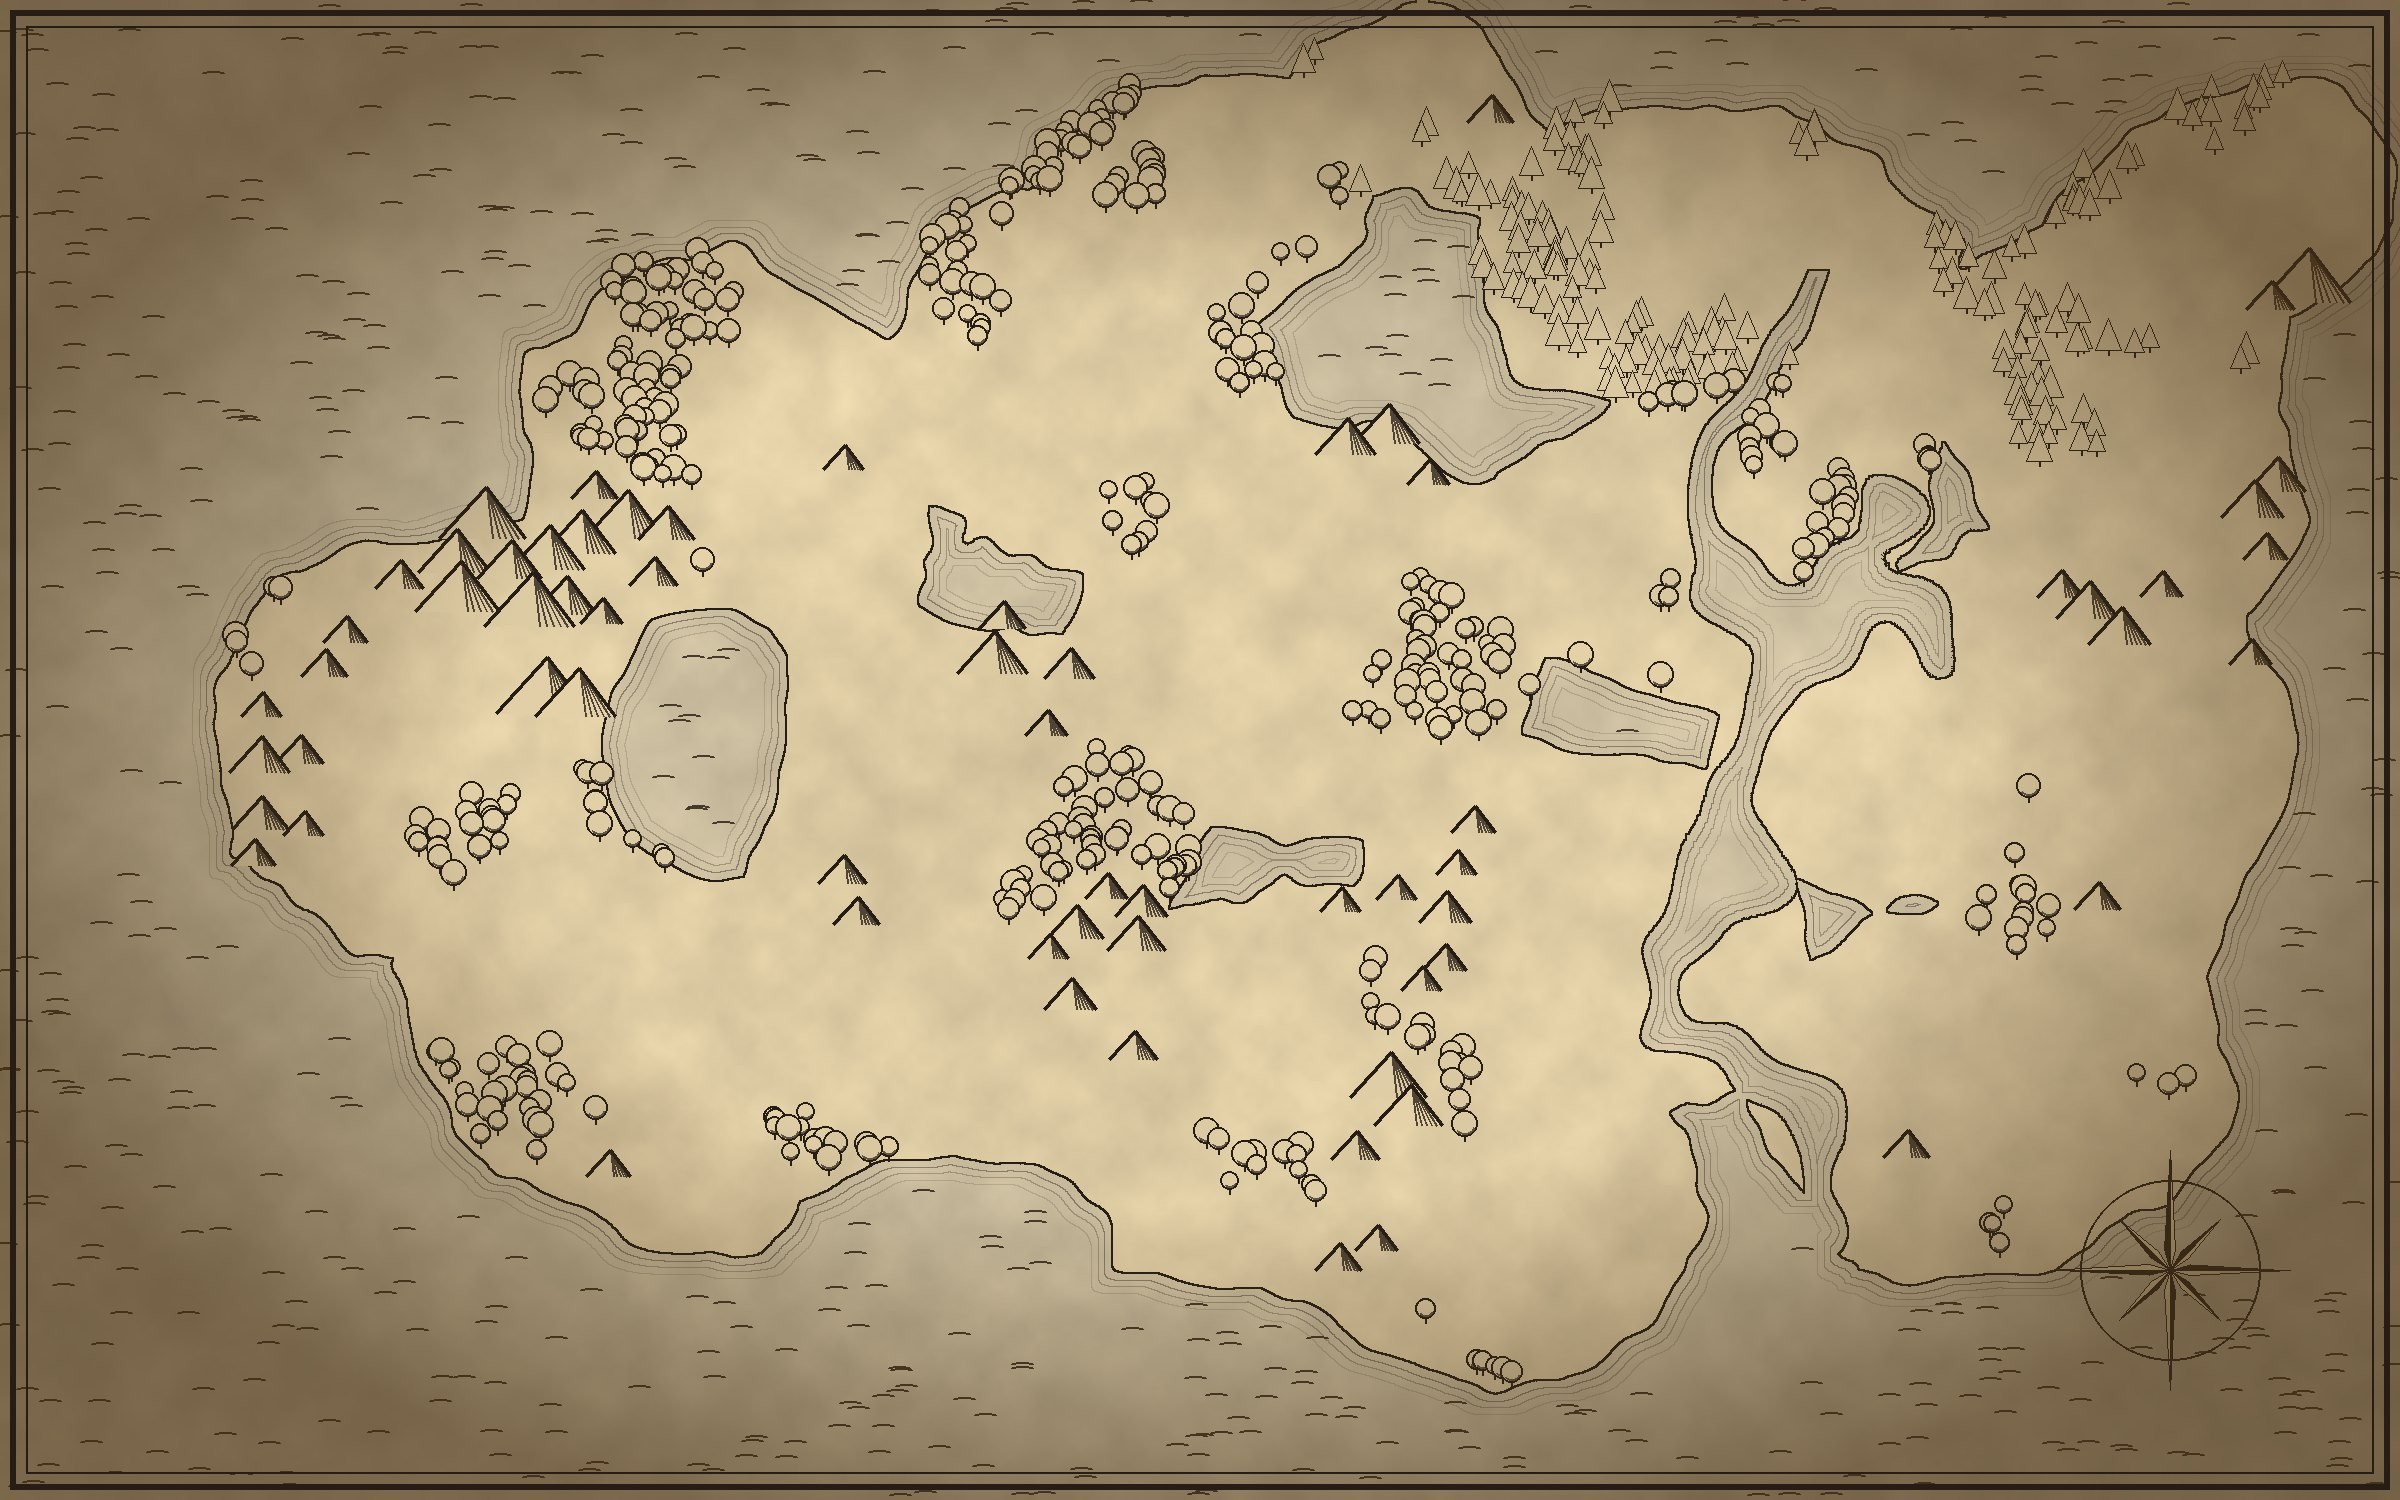
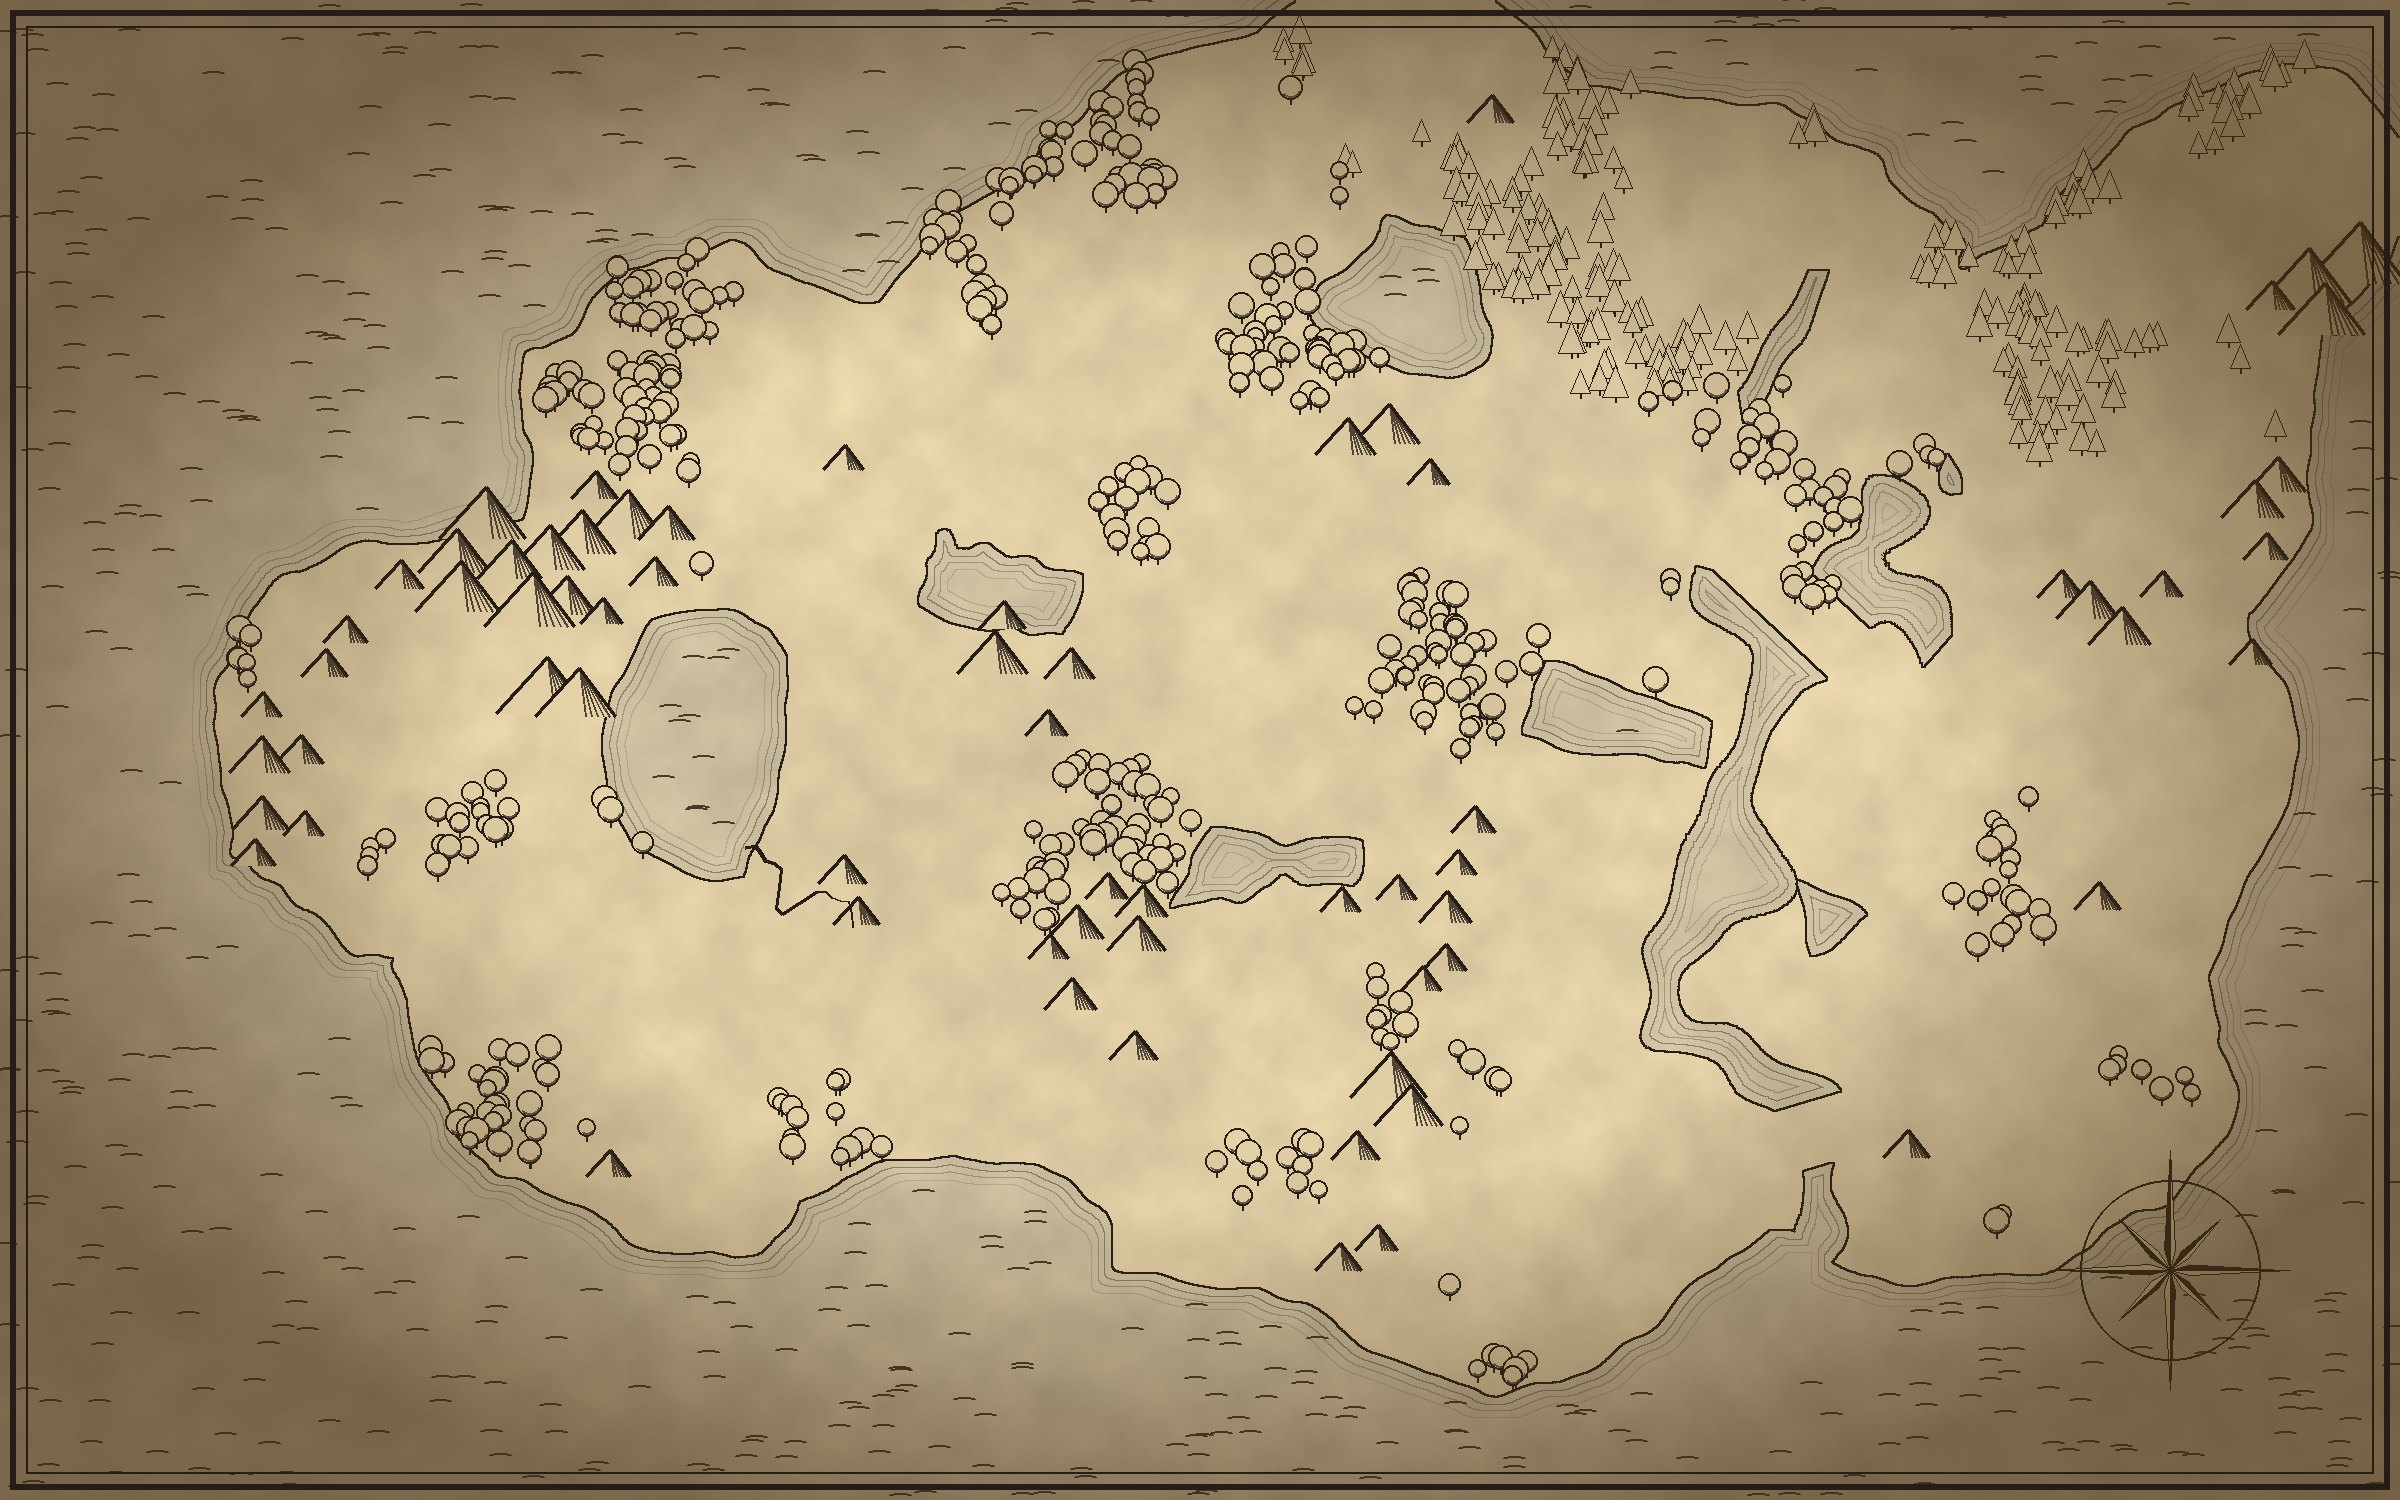
The open world: every place reachable, the world map grown along every road
Status gates tournaments, not travel; the world map's land follows every road
(a causeway or ford where one crosses the channel).

Claude-Session: https://claude.ai/code/session_01JA2Thj6vzEQeR2LT9rcQ2q

diff --git a/src/places/MapScreen.jsx b/src/places/MapScreen.jsx
@@ -11,18 +11,10 @@ import { useAssetUrl } from '../components/Asset.jsx';
 import { BEYOND_TEASER, inSlice } from '../data/slice.js';
 import Icon from '../components/Icon.jsx';
 
-const TIER_ORDER = { Regional: 0, National: 1, Global: 2 };
 
-// Road network as chains of location ids. Paths are built from each location's
-// x/y (percent of the map), so routes always meet the nodes.
-// The roads of src/data/roads.js (drawn bright), then the routes of later chapters (dim).
-const MAP_ROUTES = [
-  ...ROADS.filter((road) => !road.area && road.ends.every(Boolean)).map((road) => ({ dim: Boolean(road.gate?.chapterAtLeast), chain: road.ends })),
-  { dim: true, chain: ['windmere', 'tidecross', 'sunspire', 'mooncourt', 'thornwatch', 'skyreach', 'beaststeppe', 'irondeep'] },
-  { dim: true, chain: ['tidecross', 'brasshaven', 'coral-crown', 'cloud-monastery', 'ashen-caldera', 'starfall-archive', 'far-veil'] },
-  { dim: true, chain: ['thornwatch', 'verdant-citadel', 'irondeep'] },
-  { dim: true, chain: ['skyreach', 'ashen-caldera', 'cloud-monastery'] },
-];
+// Road network as chains of location ids: roads travelled from the map (no walkable area).
+// Walkable roads are drawn as spurs from each known end to their marker (below).
+const MAP_ROUTES = ROADS.filter((road) => !road.area && road.ends.every(Boolean)).map((road) => ({ dim: Boolean(road.gate?.chapterAtLeast), chain: road.ends }));
 
 /**
  * Where a wild area sits on the map: a road between two places sits halfway along it;
@@ -57,7 +49,8 @@ export default function MapScreen({ state, actions, navigate, place }) {
   const questTitle = story.active?.title || '';
   const knowledge = getWorldKnowledge(state);
   const selectedBeyond = !inSlice(selected.id);
-  const unlocked = TIER_ORDER[selected.tier] <= state.guild.tierIndex && !selectedBeyond;
+  // The open world: every place can be reached; danger, not status, keeps a guild away.
+  const unlocked = !selectedBeyond;
   const overworld = useAssetUrl('ui.overworld');
   // Drag to pan, pinch (or wheel) to zoom; a tap still picks a location.
   const panZoom = usePanZoom({ max: 3 });
@@ -176,7 +169,7 @@ export default function MapScreen({ state, actions, navigate, place }) {
               ) : null}
               {LOCATIONS.filter((location) => known(location.id)).map((location) => {
                 const beyond = !inSlice(location.id);
-                const canReach = TIER_ORDER[location.tier] <= state.guild.tierIndex && !beyond;
+                const canReach = !beyond;
                 const isCurrent = location.id === currentLocationId;
                 const isDestination = travel?.toId === location.id;
                 const knowledgeStatus = knowledge[location.id] || 'unknown';
@@ -409,7 +402,7 @@ export default function MapScreen({ state, actions, navigate, place }) {
         {/* Places in a later chapter share one row. */}
         {LOCATIONS.filter((location) => known(location.id) && inSlice(location.id)).map((location) => {
           const beyond = !inSlice(location.id);
-          const canReach = TIER_ORDER[location.tier] <= state.guild.tierIndex && !beyond;
+          const canReach = !beyond;
           const knowledgeStatus = knowledge[location.id] || 'unknown';
           return (
             <button

diff --git a/src/game/engine/economy.js b/src/game/engine/economy.js
@@ -4,7 +4,7 @@ import { ROOM_BY_ID } from '../../data/rooms.js';
 import { statusName } from '../../data/tournaments.js';
 import { LOT_BY_ID } from '../../data/lots.js';
 import { charterEffect } from './charter.js';
-import { LOCATION_BY_ID, travelDays, unlockedLocations } from '../../data/world.js';
+import { LOCATION_BY_ID, travelDays } from '../../data/world.js';
 import { roadBetween, roadsFrom } from '../../data/roads.js';
 import {
   addChronicle,
@@ -38,7 +38,8 @@ const DEBT_WALKOUT_LOYALTY = 50;
 export function getTravelQuote(state, destinationId) {
   const fromId = state.world?.currentLocationId || 'dunmere';
   const destination = LOCATION_BY_ID[destinationId];
-  const unlocked = unlockedLocations(state.guild.tierIndex).some((location) => location.id === destinationId);
+  // The open world: every place is open to every guild (danger, not status, keeps them away).
+  const unlocked = Boolean(destination);
   const road = roadBetween(fromId, destinationId);
   const days = destination ? road?.days || travelDays(fromId, destinationId) : 0;
   const party = Math.max(1, travellingPartyIds(state, true).length);

diff --git a/src/data/slice.js b/src/data/slice.js
@@ -4,10 +4,9 @@
 export const SLICE = {
   enabled: true,
   chapter: 1,
-  // Travel destinations on the world map.
-  locations: ['dunmere', 'greenhollow', 'ironford', 'windmere'],
-  // Walkable wild areas, built in Phase 1. Listed here so later phases share one source.
-  wildAreas: ['old-road', 'thornwood-edge', 'blackwood', 'iron-road', 'cliff-road', 'coast-road'],
+  // Travel destinations on the world map: null = the whole world (the open world, with the
+  // world skeleton's box towns and roads; docs/design/STORY_DRAFT.md).
+  locations: null,
   // Highest guild tier with content in the slice (0 = Regional).
   maxTier: 0,
   // Systems kept in code but not surfaced in Chapter 1.
@@ -26,7 +25,7 @@ export function sliceHides(system) {
 
 /** True when a location can be reached in this build. */
 export function inSlice(locationId) {
-  return !SLICE.enabled || SLICE.locations.includes(locationId);
+  return !SLICE.enabled || !SLICE.locations || SLICE.locations.includes(locationId);
 }
 
 /** Caps a tier index at the slice's highest tier. */

diff --git a/scripts/art/worldmap.py b/scripts/art/worldmap.py
@@ -59,9 +59,11 @@ field = land * 0.9 + n * 0.42 + (bays - 0.5) * 0.5 - 0.52
 # keep a sea margin round the edges, a little ragged
 # land runs along every road (src/data/roads.js) and the main route east, so roads never cross the sea
 BYID = {p['id']: p for p in PL}
-links = re.findall(r"ends: \['([a-z-]+)', '([a-z-]+)'\]", open(os.path.join(GAME, 'src', 'data', 'roads.js')).read())
-chain = ['windmere', 'tidecross', 'sunspire', 'mooncourt', 'thornwatch']
-links += list(zip(chain, chain[1:]))
+roads_src = open(os.path.join(GAME, 'src', 'data', 'roads.js')).read()
+links = re.findall(r"ends: \['([a-z-]+)', '([a-z-]+)'\]", roads_src)
+# The world skeleton's roads: WORLD_ROADS rows ['from', 'to', 'Name', [levels]].
+links += re.findall(r"\['([a-z-]+)', '([a-z-]+)', '", roads_src)
+road_near = np.zeros((H, W), dtype=bool)
 for a, b in links:
     if a not in BYID or b not in BYID:
         continue
@@ -70,12 +72,15 @@ for a, b in links:
     t = np.clip(((xx - ax) * vx + (yy - ay) * vy) / (vx * vx + vy * vy), 0, 1)
     dist = np.hypot(xx - (ax + t * vx), yy - (ay + t * vy))
     field += 0.55 * np.exp(-(dist / 80) ** 2)
+    road_near |= dist < 34
 edge = np.minimum.reduce([xx, W - xx, yy, H - yy]) / 230.0
 field -= np.clip(1 - edge, 0, 1) * 0.6
 is_land = field > 0
 # a channel cuts the Storm Isles off from the mainland
 channel = np.abs(xx - (0.76 * W + (noise(200, 3) - 0.5) * 420 + np.sin(yy / 90) * 30)) < 30
 is_land &= ~(channel & (yy > 0.18 * H) & (yy < 0.86 * H))
+# Every road keeps a strip of land: a causeway or a ford where it crosses the channel.
+is_land |= road_near
 
 # ---------------------------------------------------------------- parchment (one colour; ink does the rest)
 pts = np.array([[p['x'], p['y']] for p in PL])
